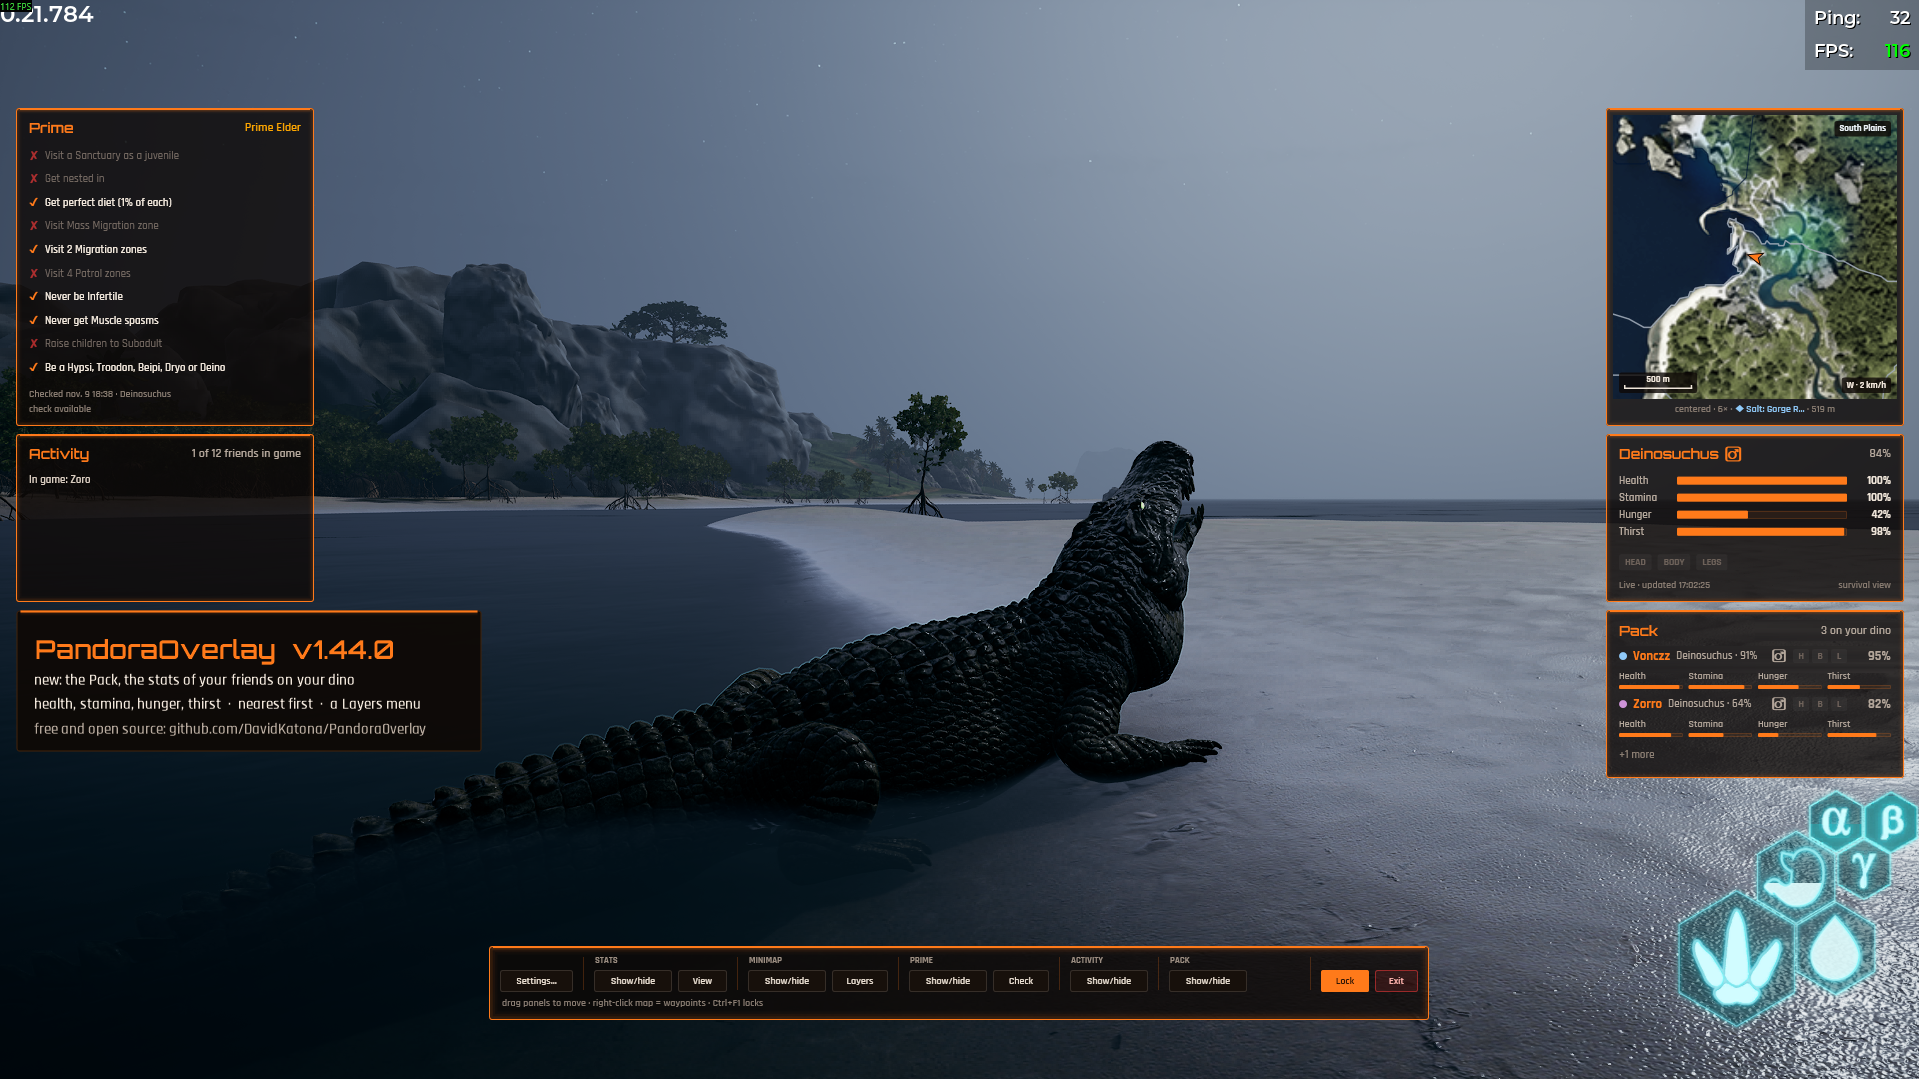
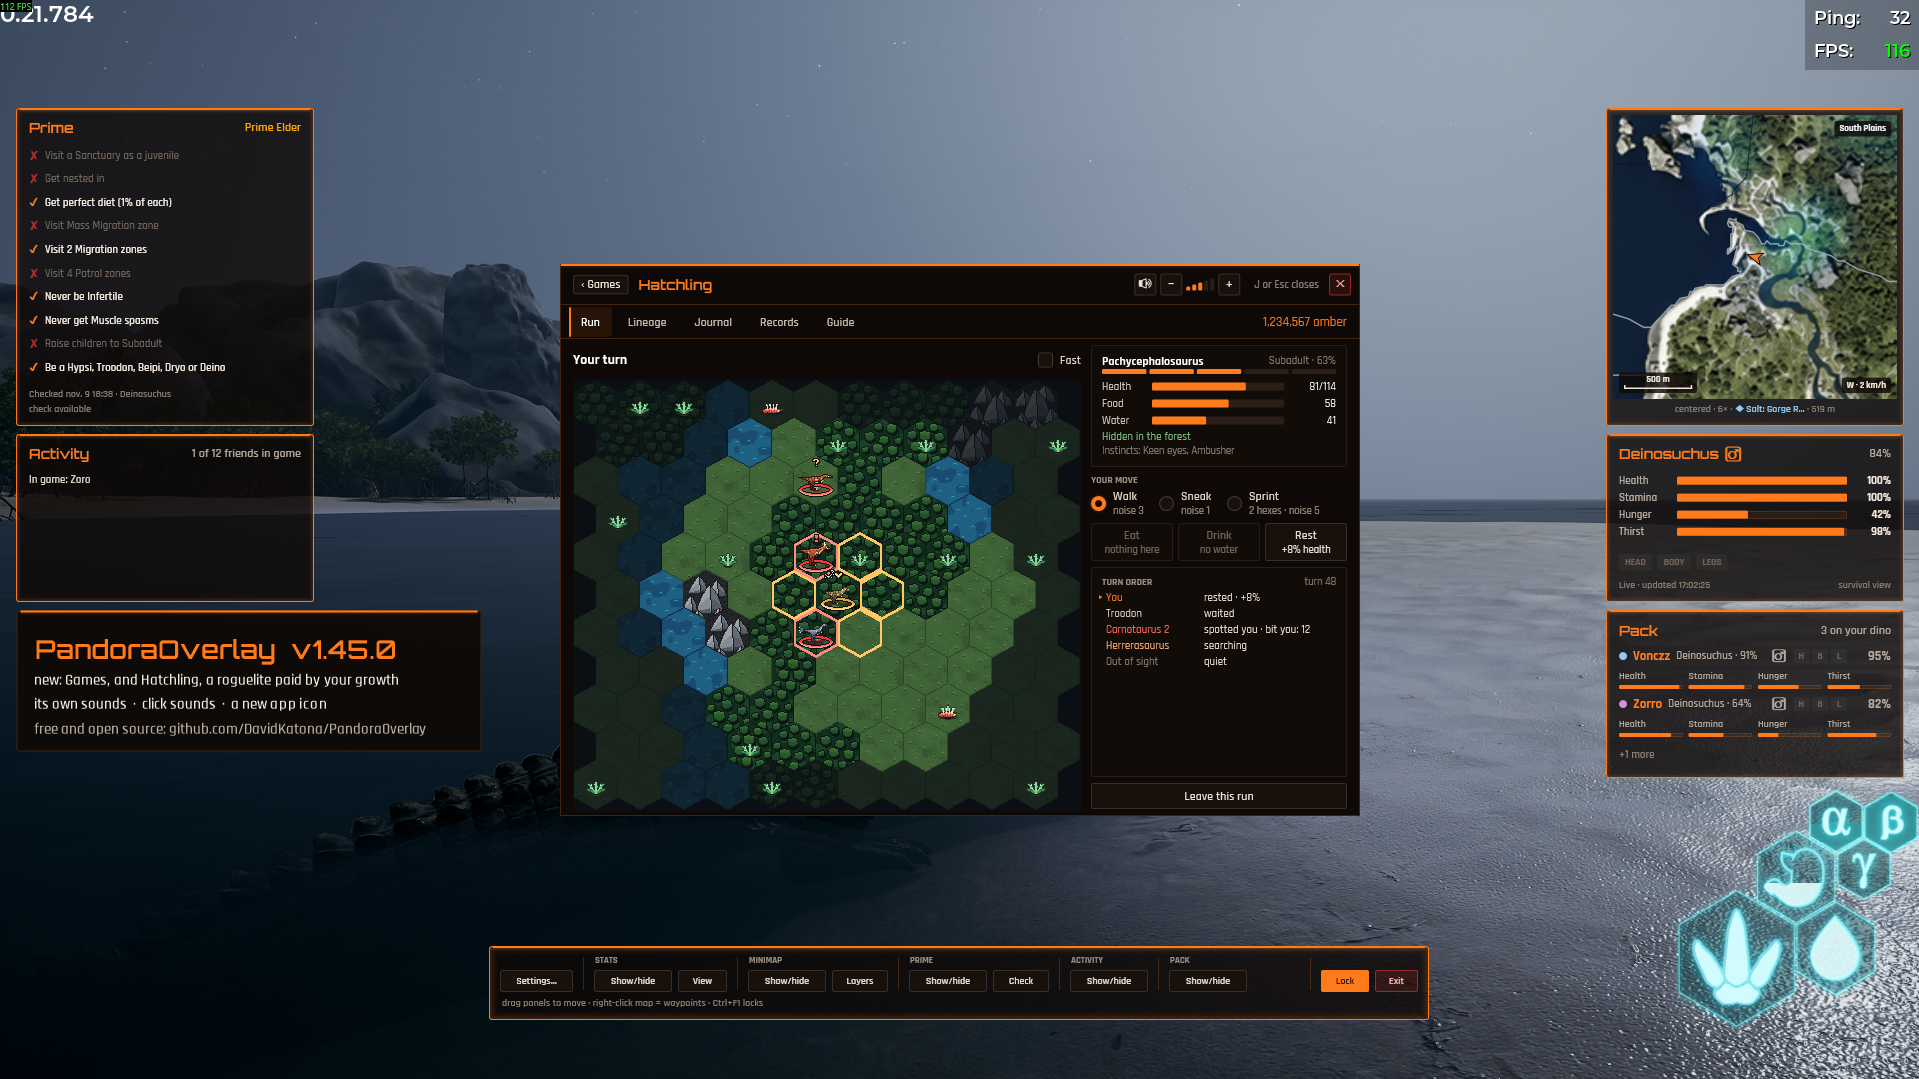
README: the hero for 1.45.0, the Games window over the game
The 1.44.0 shot (Pandora, the Pack filled from a render) with its caption
box taken out from the shot it was made from, the Games window rendered at
100% (Hatchling's Run page, the tests' render) centred on the screen, and
the Pandora caption box under the Activity feed
(make-channel-hero-pandora.ps1 -OffsetX -1422 -OffsetY -30). The same
picture is the Discord hero, pandora-channel-hero-v1.45.0.png.

Changed region(s): [[0.2767, 0.2447, 0.7071, 0.7646], [0.0307, 0.5811, 0.2152, 0.6728]]

diff --git a/README.md b/README.md
@@ -9,7 +9,7 @@ It is **fully external**: everything it does goes through the same logged-in HTT
 [![Downloads](https://img.shields.io/github/downloads/DavidKatona/PandoraOverlay/total)](https://github.com/DavidKatona/PandoraOverlay/releases)
 [![License: MIT](https://img.shields.io/github/license/DavidKatona/PandoraOverlay)](LICENSE)
 
-![The overlay in-game in the Pandora theme (orange on near-black glass, Rajdhani text with Orbitron titles, a lit orange edge along the top of every frame), in edit mode in the default two-column layout over a Deinosuchus on a pale beach at dusk: the Prime tracker ("Prime Elder", the ten conditions as a ✓/✗ list) and the Activity feed top-left, the centered minimap ("South Plains") and the stats panel top-right, and under them the new Pack widget ("3 on your dino": Vonczz and Zorro, each a Deinosuchus with the health percent and four bars captioned Health, Stamina, Hunger and Thirst, then "+1 more"), with the control panel at the bottom showing its Layers button and Pack group. A caption box in the same look under the Activity feed names version 1.44.0 and what is new: the Pack, the stats of your friends on your dino](docs/screenshot.png)
+![The overlay in-game in the Pandora theme (orange on near-black glass, Rajdhani text with Orbitron titles, a lit orange edge along the top of every frame) over a Deinosuchus on a pale beach at dusk, with the new Games window open in the middle of the screen: Hatchling's Run page, a hex island of forest, plains, water and rocks with a Pachycephalosaurus hidden in the forest and three predators near it, its health, food and water, the moves Walk, Sneak and Sprint, the turn order, and the speaker, − and + with the volume pips on the header. Around it the Prime tracker and the Activity feed top-left, the minimap, the stats panel and the Pack top-right, and the control panel at the bottom. A caption box in the same look under the Activity feed names version 1.45.0 and what is new: Games, and Hatchling, a roguelite paid by your growth; its own sounds, click sounds and a new app icon](docs/screenshot.png)
 
 
 ## Contents
